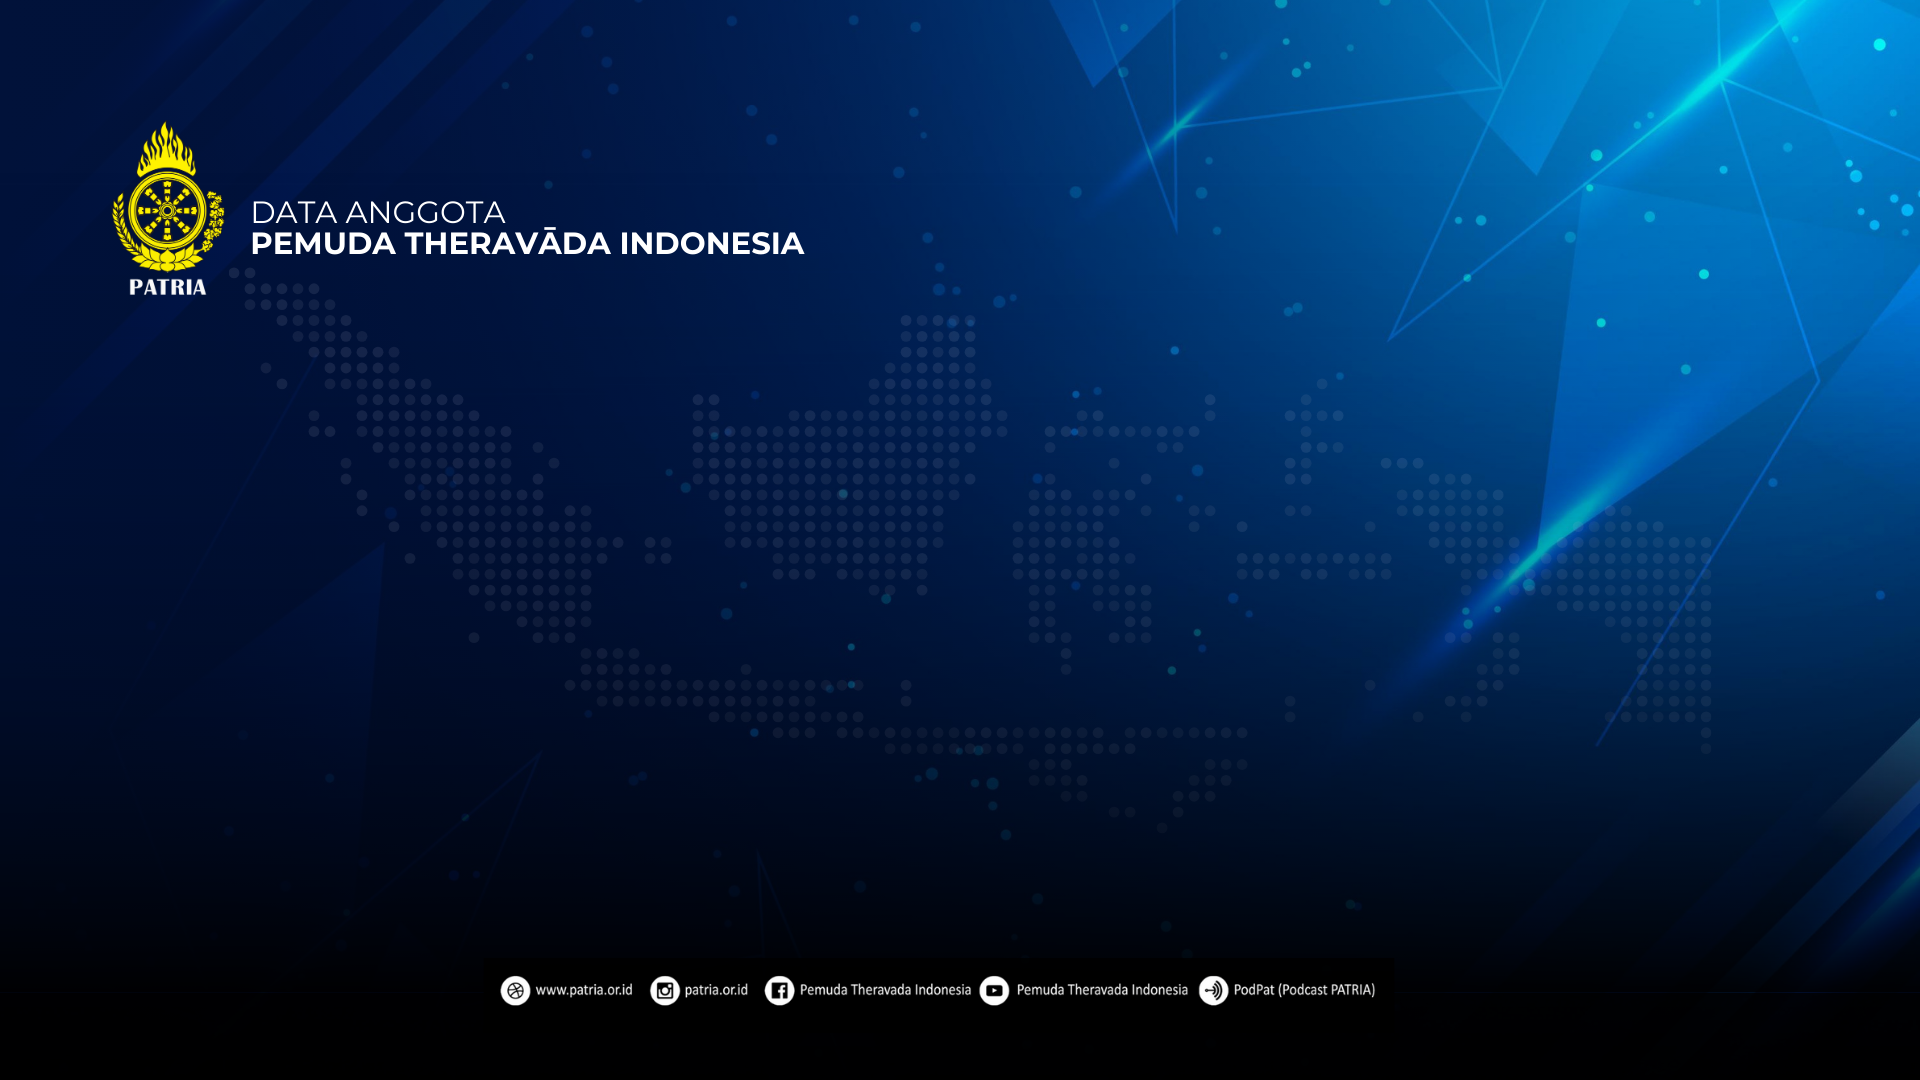
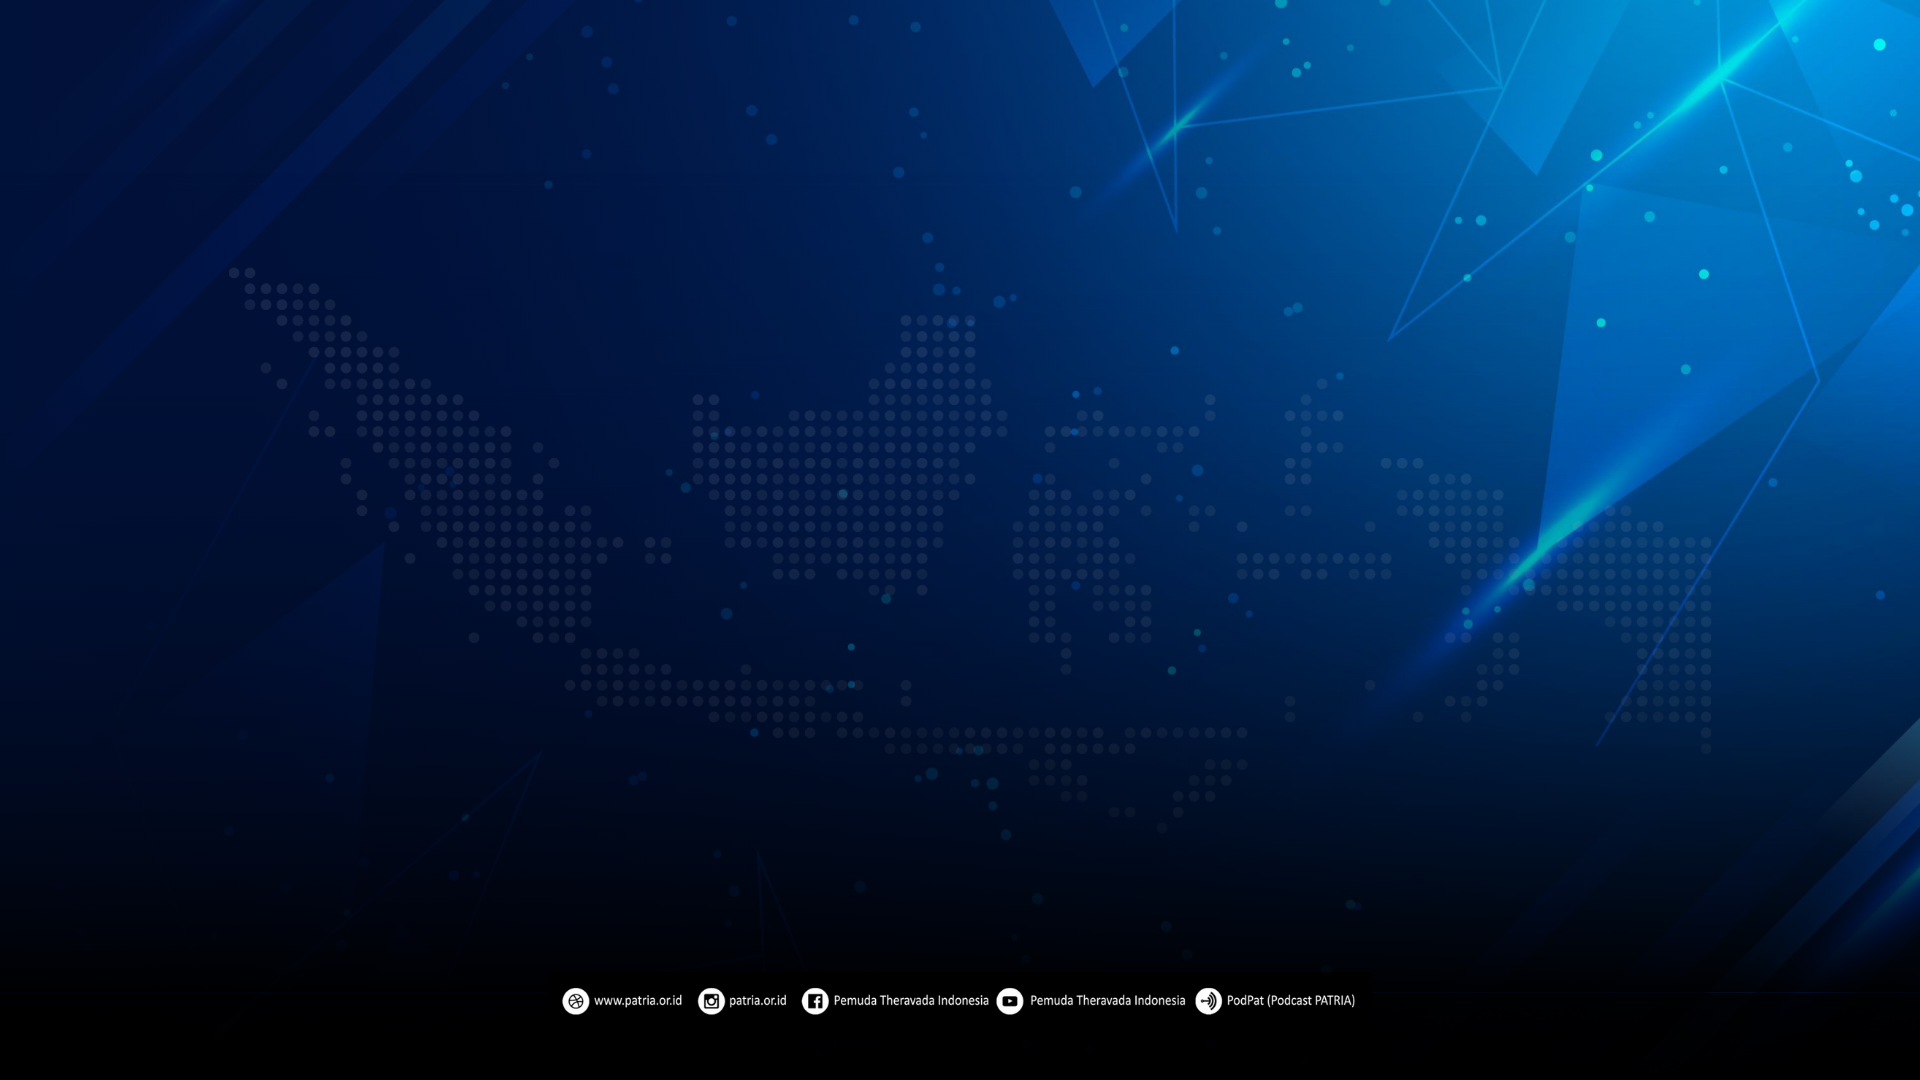
revise bg again

Changed region(s): [[0.0625, 0.1222, 0.4375, 0.275], [0.25, 0.8861, 0.7188, 0.9472]]

diff --git a/resources/views/home.blade.php b/resources/views/home.blade.php
@@ -12,7 +12,7 @@
     <style>
         body {
             font-family: 'Poppins', sans-serif;
-            background: url('{{ asset('./bg_revised.png') }}') no-repeat center center;
+            background: url('{{ asset('./bg_revised.png') }}') no-repeat center bottom;
             background-size: cover;
             margin: 0;
             padding: 0;
@@ -30,7 +30,7 @@
         .container {
             text-align: center;
             background: rgba(11, 25, 44, 0.9);
-            padding: 1rem;
+            padding: 0.75rem;
             border-radius: 12px;
             box-shadow: 0 8px 15px rgba(0, 0, 0, 0.2);
             max-width: 500px;
@@ -49,8 +49,8 @@
         #scanner-container {
             margin: 0 auto;
             width: 100%;
-            max-width: 200px;
-            height: 200px;
+            max-width: 170px;
+            height: 170px;
             display: flex;
             border: none !important;
             outline: none;

diff --git a/resources/views/partials/navbar.blade.php b/resources/views/partials/navbar.blade.php
@@ -5,7 +5,7 @@
             height: 64px;
             justify-content: space-between;
             align-items: center;
-            background: rgba(11, 25, 44, 0.9);
+            background: rgba(11, 25, 44);
             color: white;
             padding: 10px 36px;
         }
@@ -142,8 +142,6 @@
             color: white;
         }
 
-
-
 </style>
 <nav class="navbar">
         <div>
@@ -153,7 +151,6 @@
                     @if (Auth::check() && Auth::User()->role != 'Anggota')
                         <a style="font-size: 1.2rem;"  href="/users">Dashboard</a>
                     @endif
-                    
                 </div>
         </div>
             @if (Auth::check())

diff --git a/resources/views/layouts/app.blade.php b/resources/views/layouts/app.blade.php
@@ -1,5 +1,4 @@
 <!DOCTYPE html>
-<html lang="{{ str_replace('_', '-', app()->getLocale()) }}">
 <head>
     <meta charset="utf-8">
     <meta name="viewport" content="width=device-width, initial-scale=1">
@@ -12,19 +11,23 @@
     <script src="https://cdn.jsdelivr.net/npm/toastify-js"></script>
 
     <style>
+
         * {
             margin: 0;
             padding: 0;
         }
+
         body {
             font-family: 'Poppins', sans-serif;
             height: 100vh;
             width: 100vw;
         }
+        
     </style>
 </head>
-<body>
         @include('partials.navbar')
+<body>
+
         @yield('content')
         
 </body>

diff --git a/resources/views/users/show.blade.php b/resources/views/users/show.blade.php
@@ -9,7 +9,7 @@
         body {
             margin: 0;
             font-family: 'Poppins', sans-serif;
-            background: url('{{ asset('./bg_revised.png') }}') no-repeat center center;
+            background: url('{{ asset('./bg_revised.png') }}') no-repeat center bottom;
             background-size: cover;
             color: white;
             height: 100vh;

diff --git a/resources/views/login.blade.php b/resources/views/login.blade.php
@@ -2,7 +2,7 @@
 /* General Styling for the Login Container */
 .login-container {
     display: flex;
-    background: url('{{ asset('./bg_revised.png') }}') no-repeat center center;
+    background: url('{{ asset('./bg_revised.png') }}') no-repeat center bottom;
     background-size: cover;
     justify-content: center;
     align-items: center;
